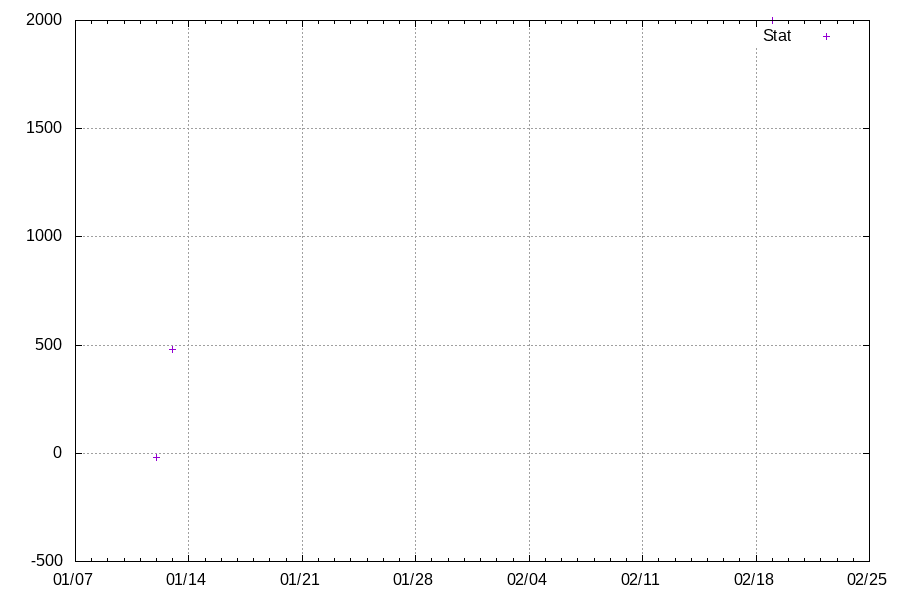
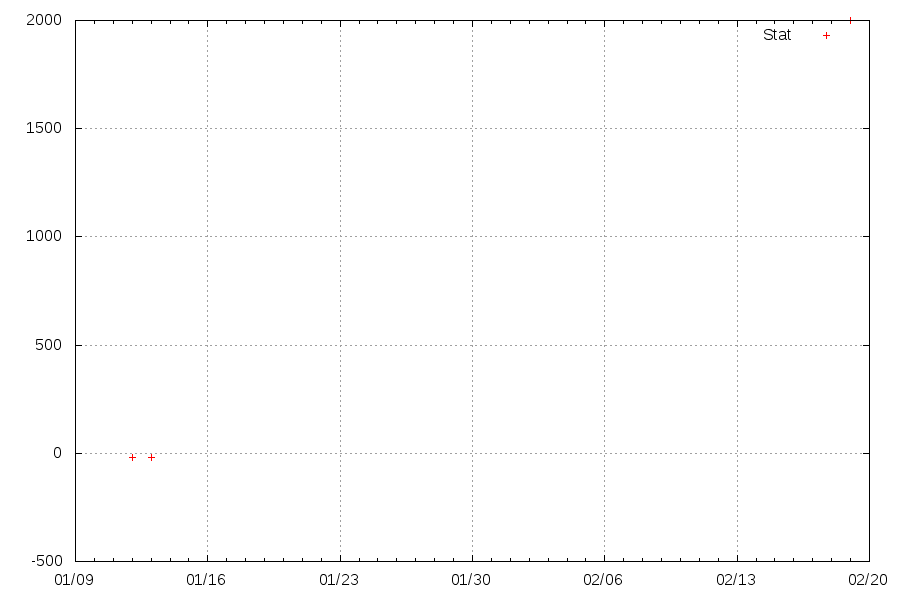
ouverture de l'image après quelle soit généré

diff --git a/gui.c b/gui.c
@@ -74,8 +74,34 @@ char* file_browser() {
       printf("path to selected file : %s\n", filename);
     }
 
+
   gtk_widget_destroy (dialog);
   return(filename);
+}
+
+void open_picture(char *filename) {
+  GtkWidget *windowPicture;
+  GtkWidget *grid;
+  GtkWidget *button_exit;
+  GtkWidget *picture;
+
+  windowPicture = gtk_window_new(GTK_WINDOW_TOPLEVEL);
+  gtk_window_set_title(GTK_WINDOW(windowPicture), "Graphique");
+  gtk_window_set_position(GTK_WINDOW(windowPicture), GTK_WIN_POS_CENTER);
+
+  grid = gtk_grid_new();
+  gtk_container_add(GTK_CONTAINER(windowPicture), grid);
+
+  picture = gtk_image_new_from_file(filename);
+
+  button_exit = gtk_button_new_with_label("Exit");
+  g_signal_connect(GTK_BUTTON(button_exit), "clicked", G_CALLBACK(close_window), windowPicture);
+
+  gtk_grid_attach(GTK_GRID(grid), picture, 0, 0, 5, 1);
+  gtk_grid_attach(GTK_GRID(grid), button_exit, 4, 1, 1, 1);
+
+  gtk_widget_show_all(windowPicture);
+
 }
 
 void alert_dialog(GtkWidget *activeWindow, gchar *text) {

diff --git a/gui.h b/gui.h
@@ -7,12 +7,18 @@
 
 void widget_set_margins(GtkWidget *widget, int top, int bottom, int left, int right);
 void widget_set_margin(GtkWidget *widget, int margin);
+
 void show_hide_button_box(GtkWidget *button, GtkWidget *box);
+
 void clean_window();
 void close_window(GtkWidget *widget, gpointer window);
+
 char* file_browser();
+void open_picture(char *filename);
+
 void alert_dialog(GtkWidget *activeWindow, gchar *text);
 void alert_dialog_then_close(GtkWidget *activeWindow, gchar *text);
+
 void main_window();
 void main_handler(GtkApplication *app);
 int gui_init(int argc, char **argv);

diff --git a/statistique.c b/statistique.c
@@ -241,6 +241,8 @@ void check_stat(GtkWidget *widget, tree_selection_t *tree) {
         }
 
         system("cat mongraph.conf | gnuplot");
+
+        open_picture("mon_graphe.png");
       }
 
 
